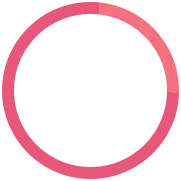
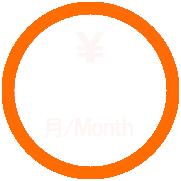
样式修改

Changed region(s): [[0.0, 0.0, 0.9945, 0.9945]]

diff --git a/app/index/css/house.css b/app/index/css/house.css
@@ -6,14 +6,14 @@ html{font-size: 42px;}
 
 .ui-header-positive-new{padding: 0;border: 0;}
 .ui-header-positive-new .ui-border-t,.ui-header-positive-new .ui-border-t li{border: none;}
-.ui-tiled li.ui-rentflow{background: #7FB941;}
-.ui-tiled li.ui-joinflow{background: #ff8444;}
-.ui-tiled li.ui-bzpo{background: #f74c31;}
+.ui-tiled li.ui-rentflow{background: #7FB941;  background: #FF6C00;border: 1px solid #ff7e00;}
+.ui-tiled li.ui-joinflow{background: #ff8444;background: #FF6C00;border: 1px solid #ff7e00;}
+.ui-tiled li.ui-bzpo{background: #f74c31;background: #FF6C00;border: 1px solid #ff7e00;}
 
 .ui-footer-new ul li,.ui-footer-new ul{border: none;color: #fff;}
-.ui-footer-new .ui-house{background: #f67381;}
-.ui-footer-new .ui-rent{background: #FFC902}
-.ui-footer-new .ui-rentout{background: #1dbc9c}
+.ui-footer-new .ui-house{background: #f67381;background: #FF6C00;border: 1px solid #ff7e00;}
+.ui-footer-new .ui-rent{background: #FFC902;background: #FF6C00;border: 1px solid #ff7e00;}
+.ui-footer-new .ui-rentout{background: #1dbc9c;background: #FF6C00;border: 1px solid #ff7e00;}
 
 
 /*我要租房*/
@@ -21,9 +21,26 @@ html{font-size: 42px;}
 .list_filter{width: 100%;height: 1.25rem;}
 .nav_filter{position: relative;z-index: 1000;width: 100%;display: -webkit-box;display: -webkit-flex;display: flex;background: #FFF;border-bottom: 1px solid #f3f3f3;height: 1.25rem;line-height: 1.25rem;-webkit-user-select: none;}
 .nav_filter .nav-name{width: 25%;-webkit-box-flex: 1;-webkit-flex: 1;flex: 1;position: inherit;text-align: center;}
-.nav_filter .nav-name a{display: inline-block;width: 1.34375rem;-o-text-overflow: ellipsis;text-overflow: ellipsis;white-space: nowrap;overflow: hidden;-webkit-user-select: none;margin-left: -.65625rem;color:#BFBABA;}
-.address_input1{display: inline-block;width: 1.34375rem;-webkit-user-select: none;border: 0 none;text-align: center;color: #e5e5e5;}
+.nav_filter .nav-name a{display: inline-block;width: 1.34375rem;-o-text-overflow: ellipsis;text-overflow: ellipsis;white-space: nowrap;overflow: hidden;-webkit-user-select: none;margin-left: -.65625rem;color:#000;}
+.address_input1{display: inline-block;width: 1.34375rem;-webkit-user-select: none;border: 0 none;text-align: center;color: #000!important;}
+:-moz-placeholder { /* Mozilla Firefox 4 to 18 */
+    color: #000;
+}
 
+::-moz-placeholder { /* Mozilla Firefox 19+ */
+    color: #000;
+}
+
+input:-ms-input-placeholder,
+textarea:-ms-input-placeholder {
+    color: #000;
+}
+
+input::-webkit-input-placeholder,
+textarea::-webkit-input-placeholder {
+    color: #000;
+}
+.checkbox_wrap span{min-width: 110px!important;height: 30px;}
 
 .ad-banner{ background-color: #fff;border: 1px solid #f3f3f3;}
 .ad-banner a{padding: .3125rem .46875rem;display: block;}
@@ -36,7 +53,7 @@ html{font-size: 42px;}
 .infoList li.item a{height: 2rem;padding: .3rem .5rem;display: flex;}
 .item a .item-thumb{width: 2.8rem;height: 2.1rem;border: 0;}
 .item a .item-info{flex:1;padding-left: .3rem;}
-.info-title{height: 1.125rem;line-height: .5625rem;font-size: .40625rem;overflow: hidden;position: relative;top: -.0625rem;}
+.info-title{height: 0.6rem;line-height: .5625rem;font-size: .40625rem;overflow: hidden;position: relative;top: -.0625rem;}
 .info-title strong{color: #333;}
 .info-desc{width: 100%;display: block;height: .5625rem;line-height: .5625rem;position: relative;color: #aaa;font-size: .3125rem;bottom: .0625rem;}
 .info-desc-detail{width: 66%;color: #aaa;font-size: .3125rem;white-space: nowrap;overflow: hidden;text-overflow: ellipsis;display: inline-block;}

diff --git a/app/index/protected/views/store/shopstore.php b/app/index/protected/views/store/shopstore.php
@@ -115,7 +115,7 @@
                                  ding="置顶";
                               var yong="";
                              if(value.yong_jin!=0)
-                                 yong="转发得"+value.yong_jin+"元";
+                                 yong="转发得佣金"+value.yong_jin+"元";
                              
                                  var lend_status='未租';
                              if(value.lend_status=='1'){
@@ -126,16 +126,18 @@
                             '<img src="upload/'+value.mian_url+'" alt="" class="item-thumb">'+
                             '<dl class="item-info">'+
                                ' <dt class="info-title"><strong>'+value.info_name+'</strong></dt>'+
+
                                ' <dd class="info-desc">'+
                                     '<span class="info-desc-detail"><em>'+value.house_type+'</em>'+value.city+'-'+value.zone+'-'+value.district+' </span>'+
                                    
             '<span class="info-desc-tag info-desc-tag--right"> <em class="biz">'+ding+'</em> </span>'+
-                                     '<span class="info-desc-tag info-desc-tag--right"> <em class="biz">'+yong+'</em> </span>'+
                                 '</dd>'+
                                 
                                 '<dd class="info-desc">'+
                                 '<span class="info-desc-price"> '+value.price+'<em class="priceunit"> 元</em></span><span class="info-desc-tag"><em class="time">'+getLocalTime(value.create_time)+'</em></span><span class="info-desc-tag--right">  <em class="personal">'+type+'</em>    </span></span><span class="info-desc-tag--right">  <em class="personal personal-type">'+lend_status+'</em>    </span>'+
-                                '</dd></dl> </a>  </li>');
+                                '</dd>' +
+                                 '<dd class="info-desc"><span class="info-desc-tag info-desc-tag--right"> <em class="biz">'+yong+'</em> </span></dd>'+
+                                     '</dl> </a>  </li>');
                             
                        
                   

diff --git a/app/index/protected/views/store/payyong.php b/app/index/protected/views/store/payyong.php
@@ -87,7 +87,7 @@
             <td id='zujin'><?php echo $cyInfo->price; ?></td>
         </tr>
         <tr>
-            <td align="right">支付金额：</td>
+            <td align="right">支付佣金金额：</td>
             <td>
                 <input id="price" value=''/>
                 
